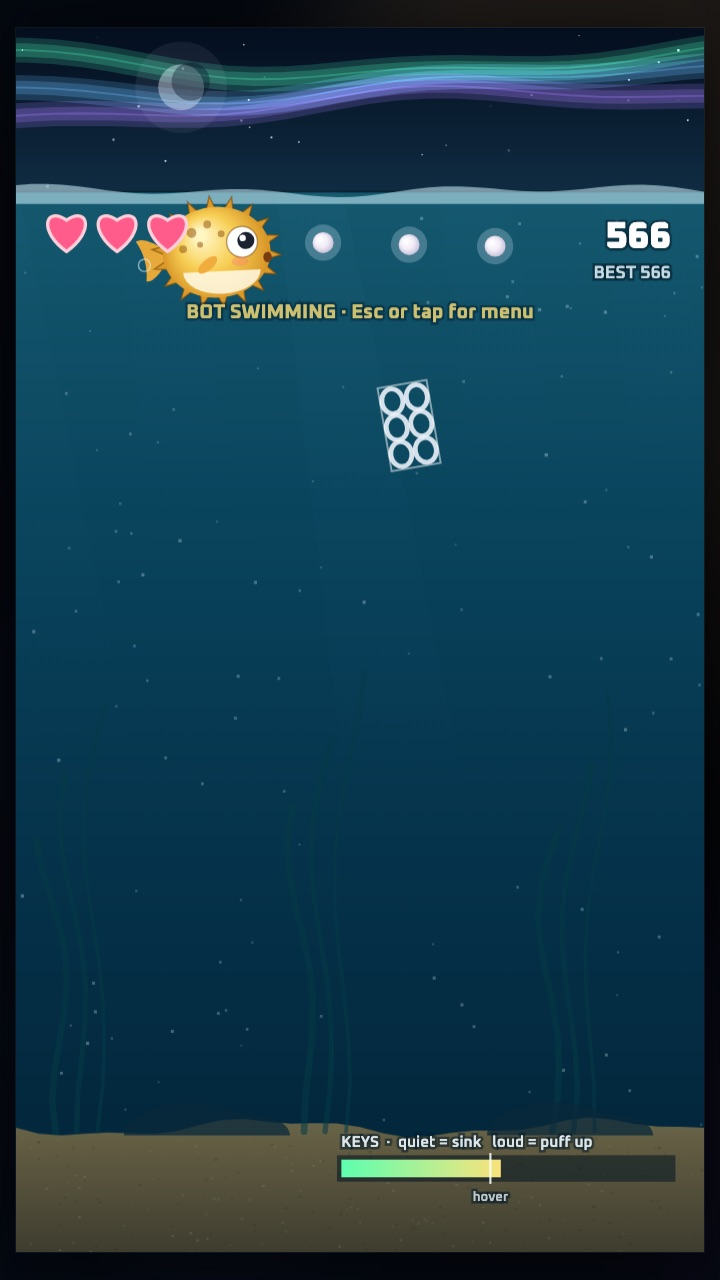
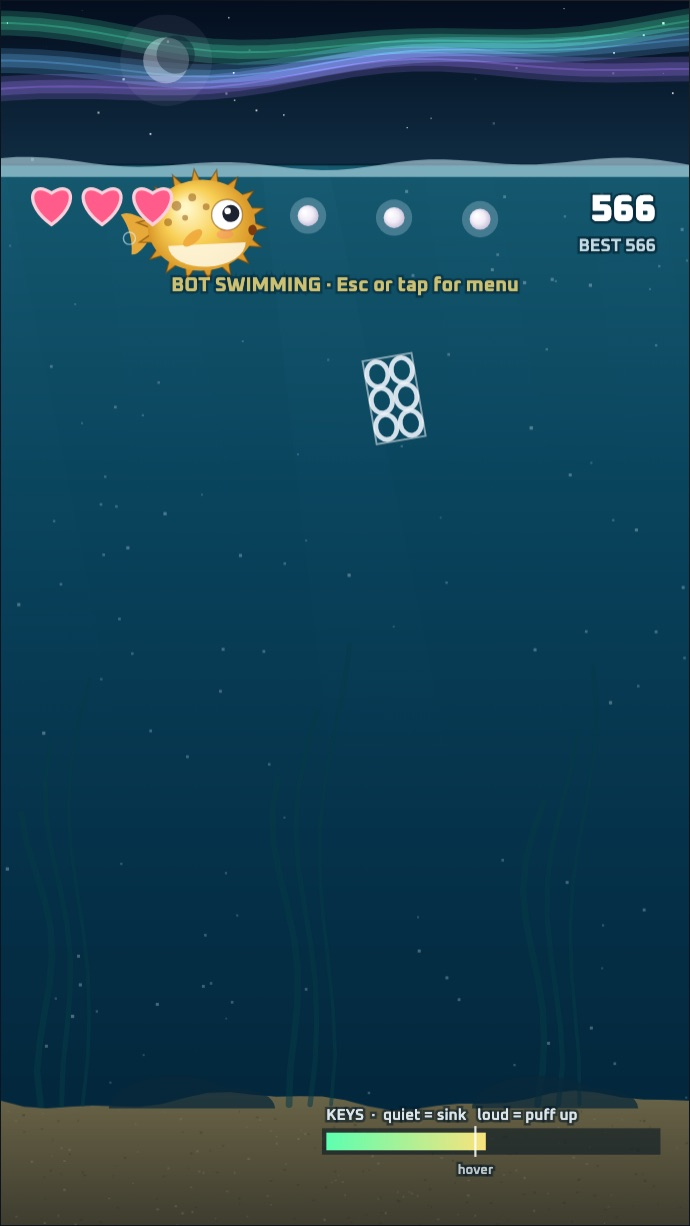
Show website screenshots at their full size
The img height attribute made every gallery shot 1280px tall, so the cards
showed only a narrow slice. height: auto lets the 9:16 aspect ratio apply.
The shots are also trimmed of the game's dark frame.

Changed region(s): [[0.0, 0.0, 1.0, 1.0], [0.5174, 0.279, 0.6391, 0.3719]]

diff --git a/website/index.html b/website/index.html
@@ -259,7 +259,7 @@ section { padding-block: clamp(64px, 9vw, 120px); }
 /* ---------- gameplay ---------- */
 .shots { display: grid; grid-template-columns: repeat(3, minmax(0, 1fr)); gap: 16px; margin-bottom: clamp(32px, 5vw, 56px); }
 .shot { margin: 0; border-radius: 14px; overflow: hidden; border: 1px solid var(--edge); background: var(--deck); }
-.shot img { width: 100%; aspect-ratio: 9 / 16; object-fit: cover; }
+.shot img { width: 100%; height: auto; aspect-ratio: 9 / 16; object-fit: cover; }
 .shot.wide { grid-column: span 3; }
 .shot.wide img { aspect-ratio: 16 / 10; }
 .features { display: grid; grid-template-columns: repeat(3, minmax(0, 1fr)); gap: 28px 36px; }
@@ -385,7 +385,7 @@ footer .wrap { display: flex; justify-content: space-between; gap: 12px; flex-wr
         </div>
       </div>
       <figure class="screen" style="margin:0">
-        <img src="assets/blackhole.jpg" alt="Blue Arrow's Starlance firing spread shots below a black hole in Mission 1" width="720" height="1280">
+        <img src="assets/blackhole.jpg" alt="Blue Arrow's Starlance firing spread shots below a black hole in Mission 1" width="690" height="1226">
         <figcaption>Mission 1: a black hole opens over the carrier wreck.</figcaption>
       </figure>
     </div>
@@ -591,10 +591,10 @@ footer .wrap { display: flex; justify-content: space-between; gap: 12px; flex-wr
         <h2 id="gameplay-h">Power you can see</h2>
       </div>
       <div class="shots">
-        <figure class="shot"><img src="assets/boss-suneater.jpg" alt="The SUNEATER harvester firing pink lasers while the Overseers taunt over the radio" width="720" height="1280" loading="lazy"><figcaption>Mission 4: SUNEATER, the star harvester.</figcaption></figure>
-        <figure class="shot"><img src="assets/sunbreak.jpg" alt="The Starlance weaving through asteroids and enemy formations near a solar array" width="720" height="1280" loading="lazy"><figcaption>Sunbreak: asteroids, formations and the harvester array.</figcaption></figure>
-        <figure class="shot"><img src="assets/echo.jpg" alt="Echo: a dark facility floor outlined by an echo, with drones and their red vision cones" width="720" height="1280" loading="lazy"><figcaption>Echo: Blue Arrow sees the facility by sound.</figcaption></figure>
-        <figure class="shot wide"><img src="assets/title.jpg" alt="Earth Vanguard title screen with Start, 2 Players, Missions, Puff's Ocean and Echo buttons" width="1280" height="800" loading="lazy"><figcaption>Title screen. Start the story, play with a friend, or jump into Puff's Ocean and Echo.</figcaption></figure>
+        <figure class="shot"><img src="assets/boss-suneater.jpg" alt="The SUNEATER harvester firing pink lasers while the Overseers taunt over the radio" width="690" height="1226" loading="lazy"><figcaption>Mission 4: SUNEATER, the star harvester.</figcaption></figure>
+        <figure class="shot"><img src="assets/sunbreak.jpg" alt="The Starlance weaving through asteroids and enemy formations near a solar array" width="690" height="1226" loading="lazy"><figcaption>Sunbreak: asteroids, formations and the harvester array.</figcaption></figure>
+        <figure class="shot"><img src="assets/echo.jpg" alt="Echo: a dark facility floor outlined by an echo, with drones and their red vision cones" width="690" height="1226" loading="lazy"><figcaption>Echo: Blue Arrow sees the facility by sound.</figcaption></figure>
+        <figure class="shot wide"><img src="assets/title.jpg" alt="Earth Vanguard title screen with Start, 2 Players, Missions, Puff's Ocean and Echo buttons" width="1250" height="704" loading="lazy"><figcaption>Title screen. Start the story, play with a friend, or jump into Puff's Ocean and Echo.</figcaption></figure>
       </div>
       <div class="features">
         <div class="feature"><h3>Weapons that change the screen</h3><p>Twin pulse lasers become a wall of light, the spread fan widens to nine rays, and the lance beam swells from a needle to a pillar across five levels. Homing missiles and bombs on top.</p></div>
@@ -621,8 +621,8 @@ footer .wrap { display: flex; justify-content: space-between; gap: 12px; flex-wr
         </div>
       </div>
       <div class="puff-shots">
-        <figure class="shot"><img src="assets/puff-sunset.jpg" alt="Puff puffed up under a sunset sky, past a plastic bag and an oil spill" width="720" height="1280" loading="lazy"></figure>
-        <figure class="shot"><img src="assets/puff-aurora.jpg" alt="Puff collecting pearls at the surface under the northern lights" width="720" height="1280" loading="lazy"></figure>
+        <figure class="shot"><img src="assets/puff-sunset.jpg" alt="Puff puffed up under a sunset sky, past a plastic bag and an oil spill" width="690" height="1226" loading="lazy"></figure>
+        <figure class="shot"><img src="assets/puff-aurora.jpg" alt="Puff collecting pearls at the surface under the northern lights" width="690" height="1226" loading="lazy"></figure>
       </div>
     </div>
   </section>
